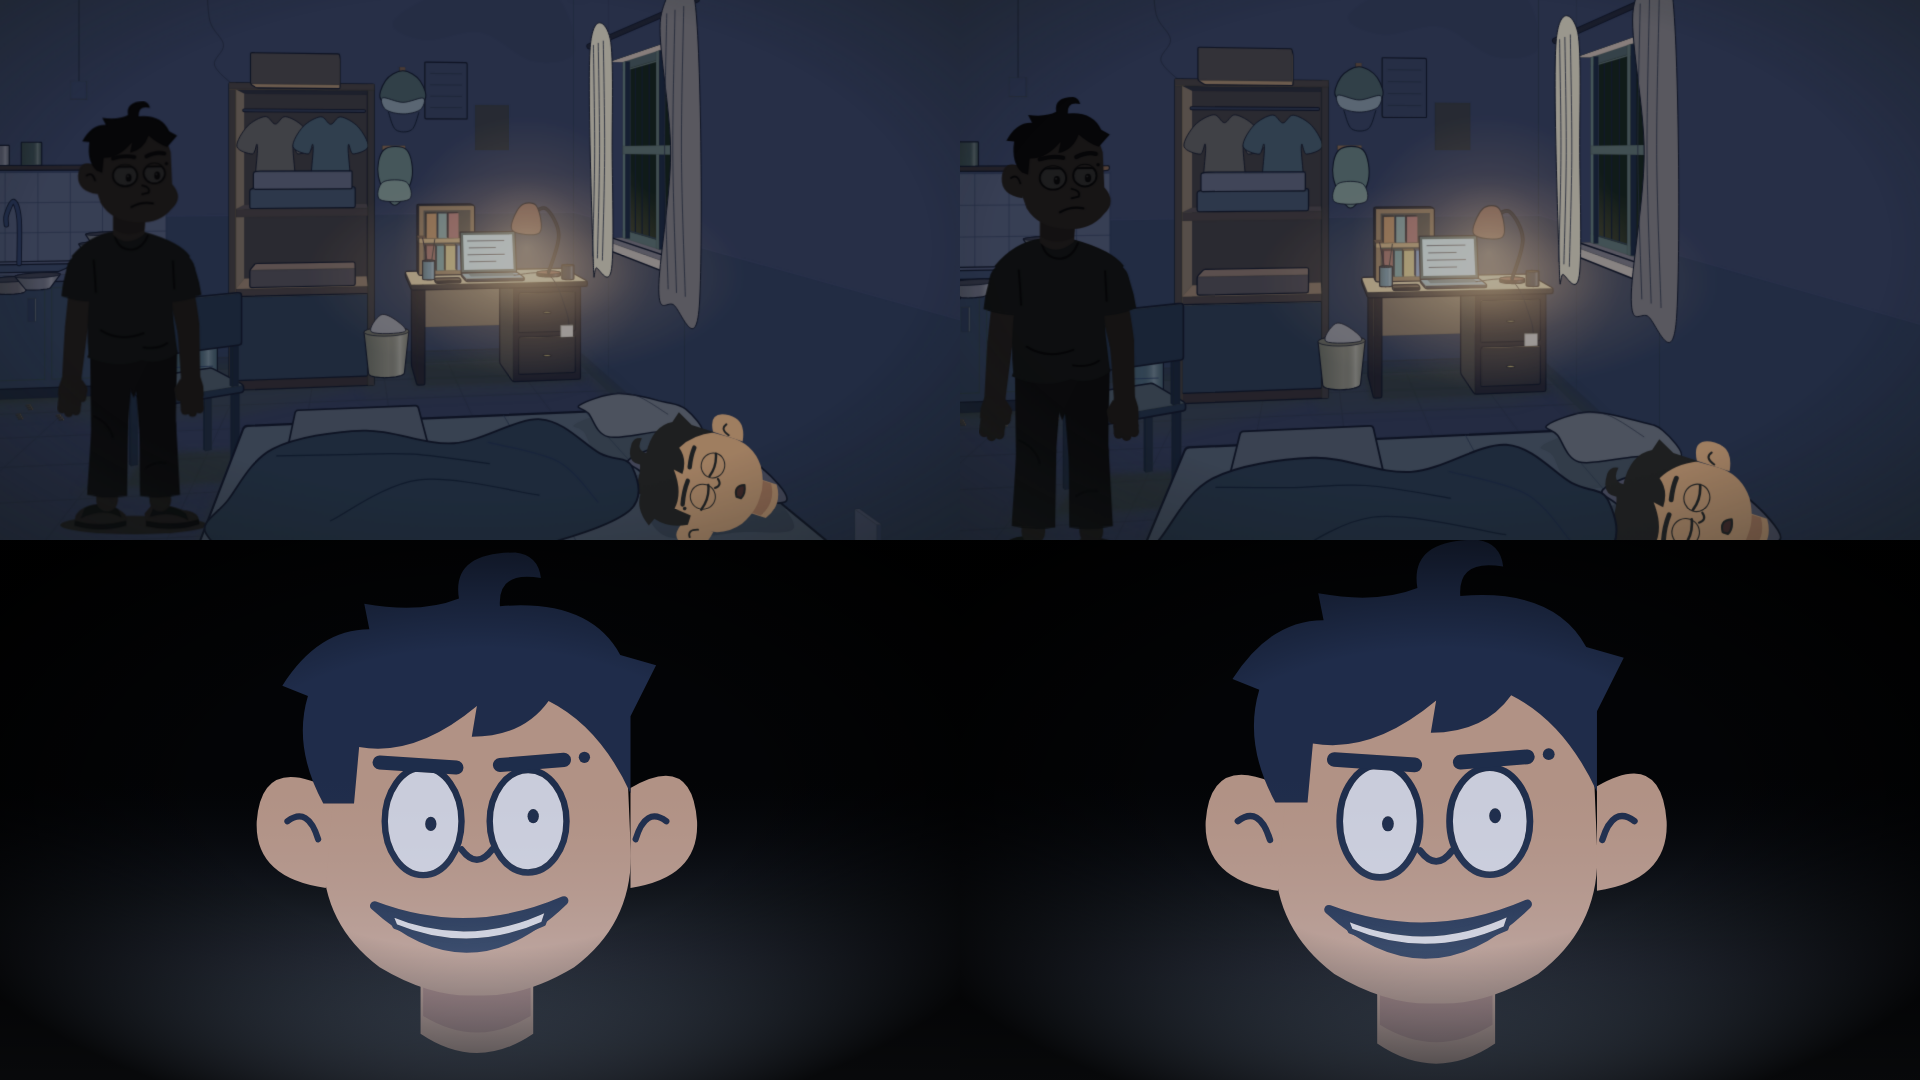
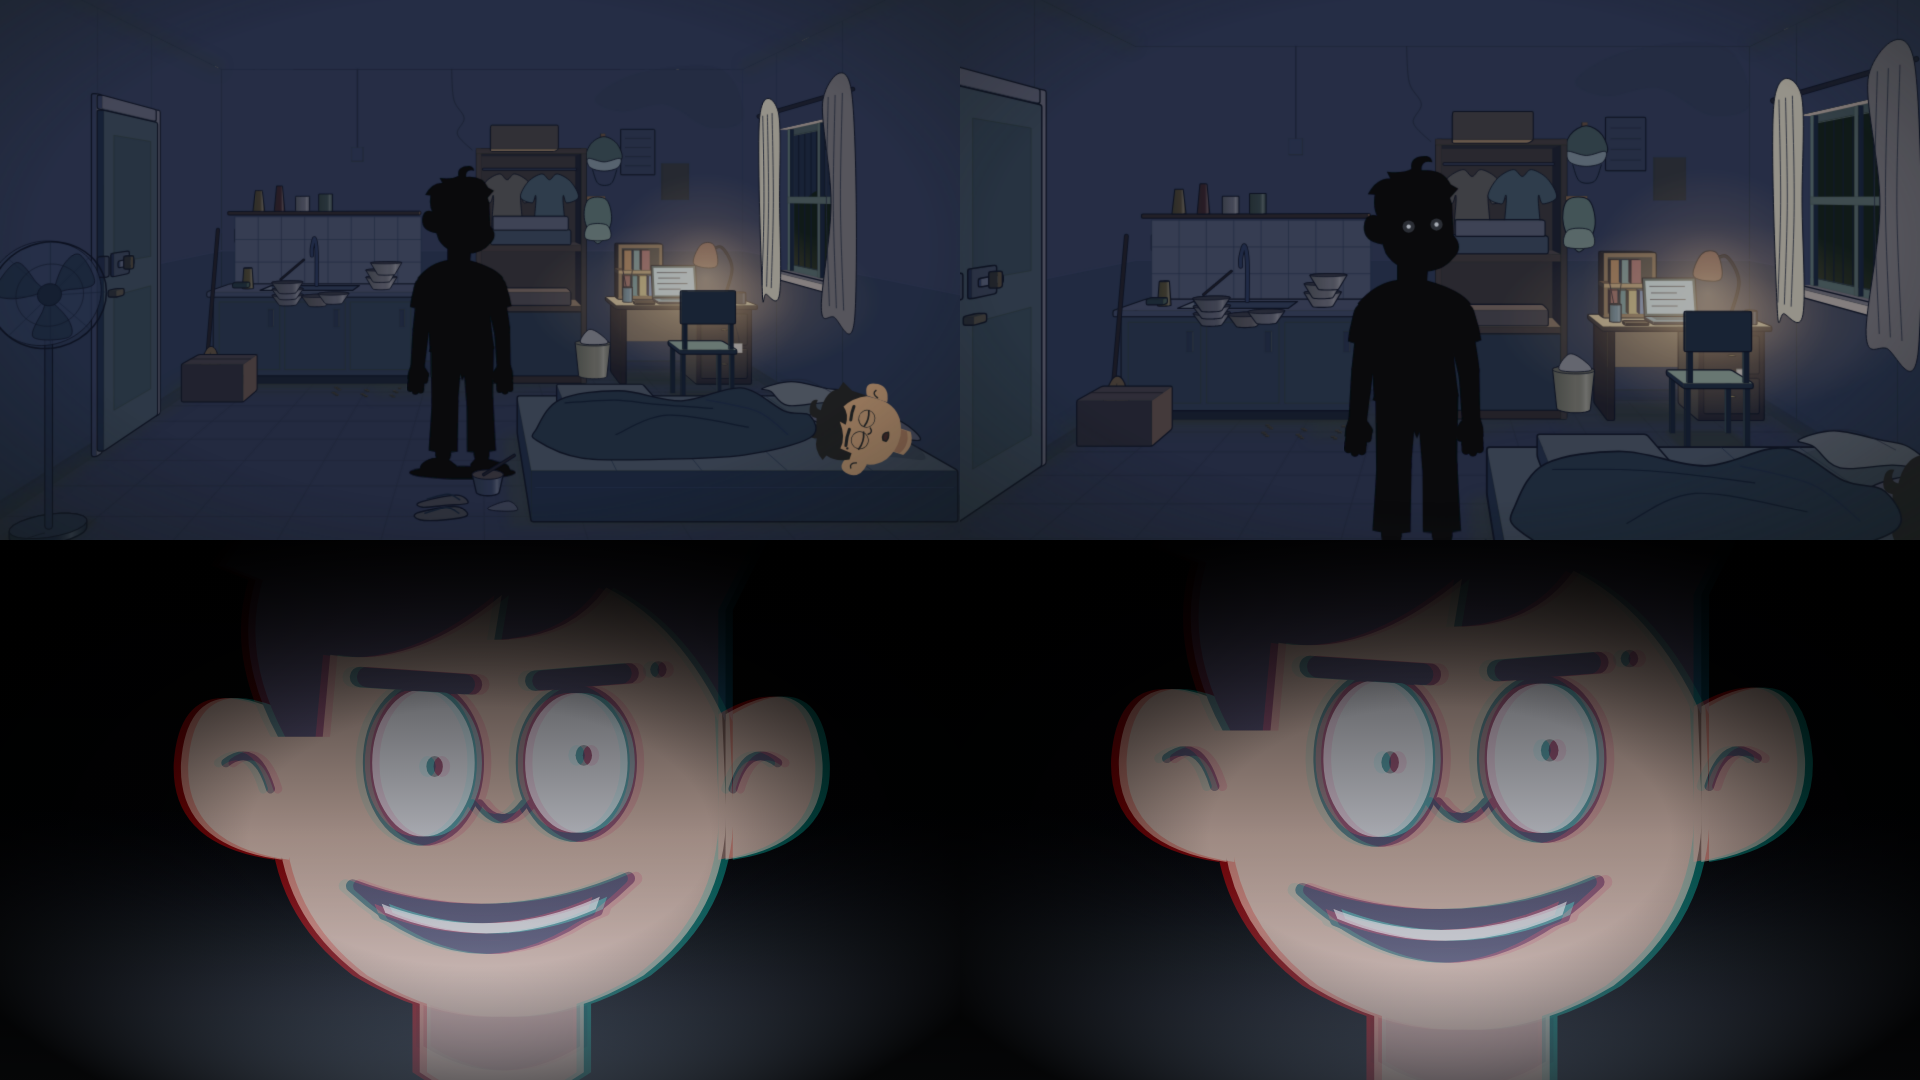
Rework Ho so 2 trailer jumpscare with silhouette, glowing eyes and sound
Silhouette stands by the bed, eyes light up near the end of the quiet
setup, then a hard cut to a shaking, colour-split close-up with library
sound cues. Audio files stay local in the ignored public sfx folder.

Claude-Session: https://claude.ai/code/session_015xtvRhLRyfqVC2mbHabEYR

diff --git a/what-if-studio/src/episodes/ho-so-02-nguoi-lam-thay/trailer-jumpscare.tsx b/what-if-studio/src/episodes/ho-so-02-nguoi-lam-thay/trailer-jumpscare.tsx
@@ -1,19 +1,22 @@
 import React from 'react';
-import { AbsoluteFill, interpolate, useCurrentFrame } from 'remotion';
+import { AbsoluteFill, Audio, interpolate, Sequence, staticFile, useCurrentFrame } from 'remotion';
 import { STAND_POSE, StudentTwinBody, StudentTwinHead } from '../../../../episodes/hem-co-chuyen/ho-so-02-nguoi-lam-thay/assets/nhan-vat';
-import { BedCorner } from '../../../../episodes/hem-co-chuyen/ho-so-02-nguoi-lam-thay/assets/boi-canh/boi-canh';
+import { RoomNight } from '../../../../episodes/hem-co-chuyen/ho-so-02-nguoi-lam-thay/assets/boi-canh/boi-canh';
 
 /**
  * Trailer P1.00 — O05 jumpscare, ngay trước tiếng báo thức.
- * J1: góc nệm ban đêm, Nam ngủ; một bóng người đứng im cạnh lối đi, máy đẩy chậm.
- * J2: cắt phụt vào cận mặt bóng người: gương mặt Nam, nốt ruồi đối bên, cười lạnh, ánh sáng hắt từ dưới.
+ * J1: toàn phòng ban đêm, Nam ngủ; một bóng đen đứng im ở lối đi cạnh nệm, gần như tan vào bóng tối. Máy đẩy rất chậm.
+ *     Gần cuối J1, hai đốm mắt trong bóng đen sáng lên.
+ * J2: cắt phụt vào cận mặt: gương mặt Nam (nốt ruồi bên phải), trừng mắt, cười toét, sáng hắt từ dưới, rung và lệch màu.
  * J3: đen. Tên phim và báo thức nằm ở timeline trailer, không trong clip này.
- * Chưa có âm: tiếng "sting" đặt đúng frame đầu J2 (xem P1.00).
+ * Âm: tiếng phòng ở J1, tiếng hù đúng frame đầu J2 (file thư viện chép vào public, xem P1.00).
  */
-export const J1 = 78; // 2,6 giây im lặng, đẩy máy
+export const J1 = 78; // 2,6 giây gần như im lặng, đẩy máy
+export const EYES_ON = 56; // frame hai đốm mắt sáng lên
 export const J2 = 12; // 0,4 giây cận mặt
 export const J3 = 14; // đen
 export const JUMP_TOTAL = J1 + J2 + J3;
+const FIGURE_AT: [number, number] = [218, 300];
 
 const Sleeper = (p: { x: number; y: number; scale: number }) => (
   <g transform={`translate(${p.x} ${p.y}) rotate(-72)`}>
@@ -21,45 +24,64 @@ const Sleeper = (p: { x: number; y: number; scale: number }) => (
   </g>
 );
 
-/** Khung rộng: t 0..1 là tiến độ đẩy máy. */
-export const JumpWide: React.FC<{ t: number }> = ({ t }) => (
+/** Khung rộng: t 0..1 là tiến độ đẩy máy, eyes 0..1 độ sáng hai đốm mắt. */
+export const JumpWide: React.FC<{ t: number; eyes?: number }> = ({ t, eyes = 0 }) => (
   <AbsoluteFill style={{ background: '#05070b' }}>
-    <BedCorner
-      night
+    <RoomNight
       door="closed"
-      move={{ push: 30 * t }}
+      kitchen="messy"
+      move={{ push: 120 * t }}
       sleeper={Sleeper}
       actors={[{
-        at: [214, 262],
+        at: FIGURE_AT,
         render: (p) => (
-          <g style={{ filter: 'brightness(.16) saturate(.4)' }}>
-            <StudentTwinBody identity="nguoi-kia" outfit="xanh" mood="eerie_smirk" pose={{ ...STAND_POSE, view: 'three', facing: 1 }} {...p} />
+          <g>
+            <g filter="url(#jump-sil)">
+              <StudentTwinBody identity="nguoi-kia" outfit="xanh" mood="calm" pose={{ ...STAND_POSE, view: 'three', facing: 1 }} {...p} />
+            </g>
+            {eyes > 0 && [[-11, 99], [30, 96]].map(([ex, ey], i) => (
+              <g key={i} opacity={eyes}>
+                <circle cx={p.x + ex * p.scale} cy={p.y + ey * p.scale} r={9 * p.scale} fill="#cfe2ff" opacity={0.25} />
+                <circle cx={p.x + ex * p.scale} cy={p.y + ey * p.scale} r={3.2 * p.scale} fill="#eef5ff" />
+              </g>
+            ))}
           </g>
         ),
       }]}
     >
       <defs>
-        <filter id="jump-shadow"><feColorMatrix type="matrix" values=".07 0 0 0 .01  0 .08 0 0 .015  0 0 .12 0 .03  0 0 0 1 0" /></filter>
+        <filter id="jump-sil"><feFlood floodColor="#07090f" /><feComposite in2="SourceAlpha" operator="in" /></filter>
       </defs>
-      <rect width={1920} height={1080} fill="#02040a" opacity={0.28} />
-    </BedCorner>
+      <rect width={1920} height={1080} fill="#02040a" opacity={0.3} />
+    </RoomNight>
   </AbsoluteFill>
 );
 
-/** Cận mặt: k 0..1 trong 12 frame; rung mạnh, phóng nhẹ. */
+/** Cận mặt: k 0..1 trong 12 frame; rung mạnh, phóng nhanh, lệch màu đỏ/xanh. */
 export const JumpFace: React.FC<{ k: number }> = ({ k }) => {
-  const shake = Math.sin(k * 61) * 14 * (1 - k * 0.5);
-  const zoom = 1 + k * 0.08;
+  const shake = Math.sin(k * 61) * 18 * (1 - k * 0.4);
+  const zoom = 1 + k * 0.12;
+  const head = (dx: number, tint?: string) => (
+    <g transform={`translate(${dx} 0)`} filter={tint} style={tint ? { mixBlendMode: 'screen' } : undefined} opacity={tint ? 0.55 : 1}>
+      <StudentTwinHead identity="nguoi-kia" mood="stare_grin" view="front" x={1010} y={-260} scale={7.2} id={`jump-face-${dx}`} />
+    </g>
+  );
   return (
-    <AbsoluteFill style={{ background: '#030406' }}>
+    <AbsoluteFill style={{ background: '#020305' }}>
       <svg width={1920} height={1080} viewBox="0 0 1920 1080">
         <defs>
-          <linearGradient id="jump-under" x1="0" y1="1" x2="0" y2="0"><stop offset="0" stopColor="#b9d4ff" stopOpacity=".55" /><stop offset=".55" stopColor="#0b1222" stopOpacity="0" /></linearGradient>
-          <filter id="jump-face"><feColorMatrix type="matrix" values=".62 0 0 0 0  0 .66 0 0 .01  0 0 .82 0 .05  0 0 0 1 0" /></filter>
-          <radialGradient id="jump-vig" cx=".5" cy=".48" r=".62"><stop offset=".45" stopColor="#000" stopOpacity="0" /><stop offset="1" stopColor="#000" stopOpacity=".92" /></radialGradient>
+          <linearGradient id="jump-top" x1="0" y1="0" x2="0" y2="1"><stop offset="0" stopColor="#000" stopOpacity=".9" /><stop offset=".55" stopColor="#000" stopOpacity=".25" /><stop offset="1" stopColor="#000" stopOpacity="0" /></linearGradient>
+          <linearGradient id="jump-under" x1="0" y1="1" x2="0" y2="0"><stop offset="0" stopColor="#bcd6ff" stopOpacity=".6" /><stop offset=".5" stopColor="#0b1222" stopOpacity="0" /></linearGradient>
+          <filter id="jump-face"><feColorMatrix type="matrix" values=".5 0 0 0 0  0 .54 0 0 .01  0 0 .7 0 .04  0 0 0 1 0" /></filter>
+          <filter id="jump-red"><feColorMatrix type="matrix" values="1 0 0 0 .2  0 0 0 0 0  0 0 0 0 0  0 0 0 1 0" /></filter>
+          <filter id="jump-cyan"><feColorMatrix type="matrix" values="0 0 0 0 0  0 1 0 0 .1  0 0 1 0 .2  0 0 0 1 0" /></filter>
+          <radialGradient id="jump-vig" cx=".5" cy=".55" r=".6"><stop offset=".4" stopColor="#000" stopOpacity="0" /><stop offset="1" stopColor="#000" stopOpacity=".95" /></radialGradient>
         </defs>
         <g transform={`translate(${960 + shake} ${560 + shake * 0.4}) scale(${zoom}) translate(-960 -560)`}>
-          <g filter="url(#jump-face)"><StudentTwinHead identity="nguoi-kia" mood="stare_grin" view="front" x={960} y={70} scale={5} id="jump-face-head" /></g>
+          <g filter="url(#jump-face)">{head(0)}</g>
+          {head(-14, 'url(#jump-red)')}
+          {head(14, 'url(#jump-cyan)')}
+          <rect width={1920} height={1080} fill="url(#jump-top)" />
           <rect width={1920} height={1080} fill="url(#jump-under)" style={{ mixBlendMode: 'screen' }} />
         </g>
         <rect width={1920} height={1080} fill="url(#jump-vig)" />
@@ -68,17 +90,29 @@ export const JumpFace: React.FC<{ k: number }> = ({ k }) => {
   );
 };
 
+/** Âm thanh: file thư viện chép vào public/ho-so-02-nguoi-lam-thay/sfx/ (thư mục bị Git bỏ qua). */
+const SFX = (name: string) => staticFile(`ho-so-02-nguoi-lam-thay/sfx/${name}`);
+export const JumpAudio: React.FC = () => (
+  <>
+    <Sequence durationInFrames={J1}><Audio src={SFX('room_tone.mp3')} volume={0.45} /></Sequence>
+    <Sequence from={J1}><Audio src={SFX('drone_hit.mp3')} volume={1} /></Sequence>
+    <Sequence from={J1}><Audio src={SFX('glitch.mp3')} volume={0.6} /></Sequence>
+  </>
+);
+
 export const HoSo02TrailerJumpscare: React.FC = () => {
   const f = useCurrentFrame();
-  if (f < J1) return <JumpWide t={interpolate(f, [0, J1], [0, 1], { easing: (x) => x * x * (3 - 2 * x) })} />;
-  if (f < J1 + J2) return <JumpFace k={(f - J1) / J2} />;
-  return <AbsoluteFill style={{ background: '#000' }} />;
+  const ease = (x: number) => x * x * (3 - 2 * x);
+  const view = f < J1
+    ? <JumpWide t={interpolate(f, [0, J1], [0, 1], { easing: ease })} eyes={interpolate(f, [EYES_ON, EYES_ON + 6], [0, 1], { extrapolateLeft: 'clamp', extrapolateRight: 'clamp' })} />
+    : f < J1 + J2 ? <JumpFace k={(f - J1) / J2} /> : <AbsoluteFill style={{ background: '#000' }} />;
+  return <AbsoluteFill>{view}<JumpAudio /></AbsoluteFill>;
 };
 
 /** Ba khung tĩnh để duyệt: đầu J1, cuối J1, giữa J2. */
 export const HoSo02JumpscareBoard: React.FC = () => (
   <div style={{ width: 1920, height: 1080, display: 'grid', gridTemplateColumns: '1fr 1fr', gridTemplateRows: '1fr 1fr', background: '#111' }}>
-    {[<JumpWide t={0} />, <JumpWide t={1} />, <JumpFace k={0.3} />, <JumpFace k={0.9} />].map((el, i) => (
+    {[<JumpWide t={0} />, <JumpWide t={1} eyes={1} />, <JumpFace k={0.3} />, <JumpFace k={0.9} />].map((el, i) => (
       <div key={i} style={{ width: 960, height: 540, overflow: 'hidden', position: 'relative' }}>
         <div style={{ width: 1920, height: 1080, transform: 'scale(.5)', transformOrigin: '0 0', position: 'relative' }}>{el}</div>
       </div>

diff --git a/episodes/hem-co-chuyen/ho-so-02-nguoi-lam-thay/PHAN-01-NGUOI-TRONG-PHONG.md b/episodes/hem-co-chuyen/ho-so-02-nguoi-lam-thay/PHAN-01-NGUOI-TRONG-PHONG.md
@@ -107,13 +107,13 @@ Ba hình nhanh: **`kitchen` — đống chén ở bồn → `bed` — áo xanh t
 
 **Nhạc cắt cụt.**
 
-### O05 — Jumpscare · khoảng 0:30–0:34 · `bed` đêm → cận mặt
+### O05 — Jumpscare · khoảng 0:30–0:34 · toàn phòng đêm → cận mặt
 
-**J1 · 2,6 giây · im lặng.** Chỉ còn tiếng quạt. Góc nệm ban đêm, máy đẩy vào rất chậm. Nam ngủ, đầu nghiêng trên gối; Tùng nằm phía sát tường dưới chăn. Ở mép trái khung, cạnh lối đi, **có một bóng người đứng im**, gần như tan vào bóng tối. Không nhấn, không cho nhạc báo; người xem để ý được thì càng sợ.
+**J1 · 2,6 giây · gần như im lặng.** Chỉ còn tiếng quạt rất nhỏ. Toàn phòng ban đêm, máy đẩy vào rất chậm. Nam ngủ, đầu nghiêng trên gối. Ở lối đi cạnh nệm **có một bóng đen người đứng im**, quay mặt về phía Nam, chỉ còn hình dáng, không thấy mặt hay áo. Không nhạc báo. Ở khoảng giây thứ 1,9, **hai đốm mắt trong bóng đen sáng lên**.
 
-**J2 · 0,4 giây.** **Cắt phụt vào cận mặt bóng người**, sát máy: gương mặt Nam, mắt trừng, con ngươi nhỏ, cười toét, ánh xanh hắt từ dưới, khung rung mạnh. Nốt ruồi nằm bên phải theo thiết kế bản sao, không nhấn riêng. **Tiếng hù** (thử `drone_hit` hoặc `glitch` chồng `title_boom` trong thư viện) rơi đúng frame đầu J2.
+**J2 · 0,4 giây.** **Cắt phụt vào cận mặt**, kín khung: gương mặt Nam trừng mắt, con ngươi nhỏ, cười toét, ánh xanh hắt từ dưới lên, khung rung mạnh, viền lệch màu đỏ/xanh. Nốt ruồi nằm bên phải theo thiết kế bản sao, không nhấn riêng. **Tiếng hù** rơi đúng frame đầu J2: `drone_hit` chồng `glitch` từ thư viện, đã thử trong clip xem thử. Mặt này dùng biểu cảm `stare_grin`.
 
-**J3.** Cắt đen.
+**J3.** Cắt đen. Tiếng hù còn đuôi ngắn trên màn đen rồi chuông báo thức vào ở O06.
 
 **Logic truyện:** theo [dòng thời gian V1](LUAT-BAN-NHAP-V1.md#dòng-thời-gian-và-quyền), thực thể ra ngoài trong đêm trước ngày 1. Cú hù chỉ cho thấy nó đứng nhìn Nam ngủ; không lộ nó từ đâu ra hay gương liên quan thế nào. Nó mặc áo xanh lấy từ ghế, khớp với buổi sáng ở P1.01. Đây là cảnh đề xuất mới, chưa được duyệt thành lore.
 
@@ -128,7 +128,7 @@ Ba hình nhanh: **`kitchen` — đống chén ở bồn → `bed` — áo xanh t
 **Ghi chú duyệt:**
 - **Đã chọn:** trailer bình thường; jumpscare trước báo thức; báo thức thay tiếng vòi nước; tiết kiệm quota; clip Nam giữa khung tách riêng.
 - **Còn đề xuất:**
-  - cách dựng cú hù (bóng người cạnh nệm, cận mặt cười toét);
+  - cách dựng cú hù (bóng đen cạnh nệm, hai đốm mắt, cận mặt cười toét lệch màu);
   - trang phục từng lát;
   - ba câu “Tí nữa”, tên phim trên nền đen;
   - nhạc và âm thư viện.
